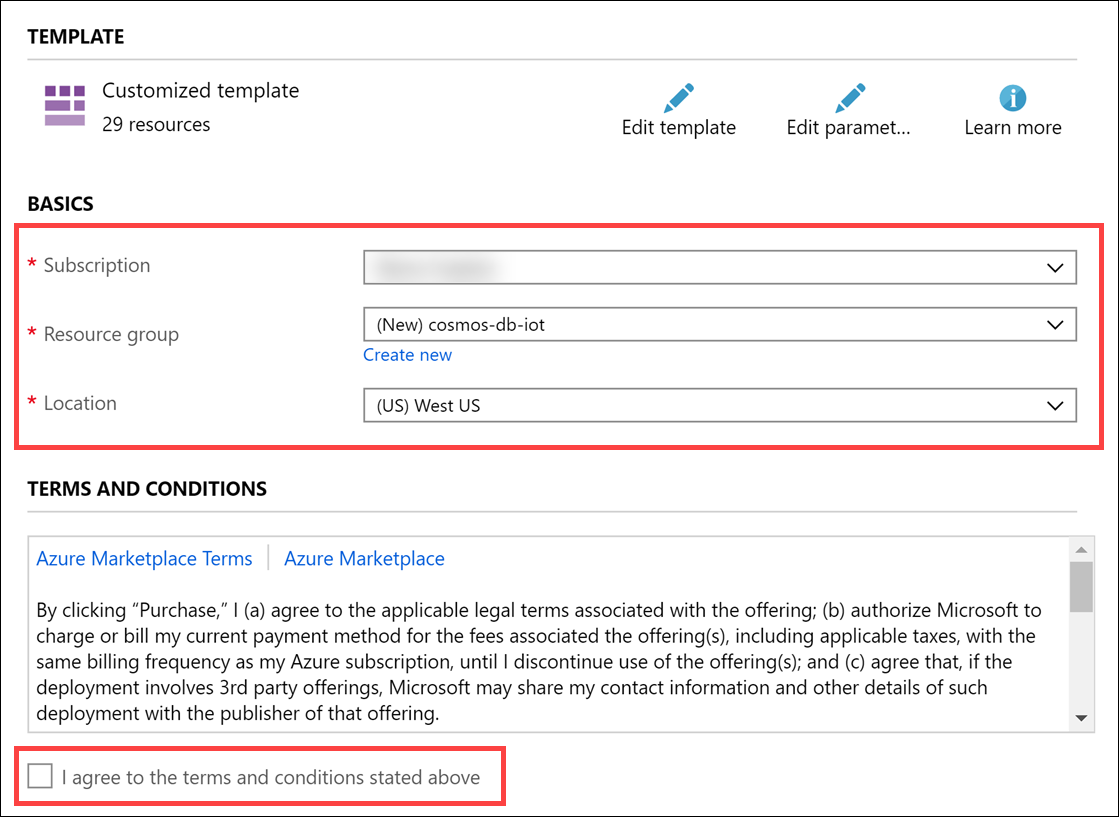
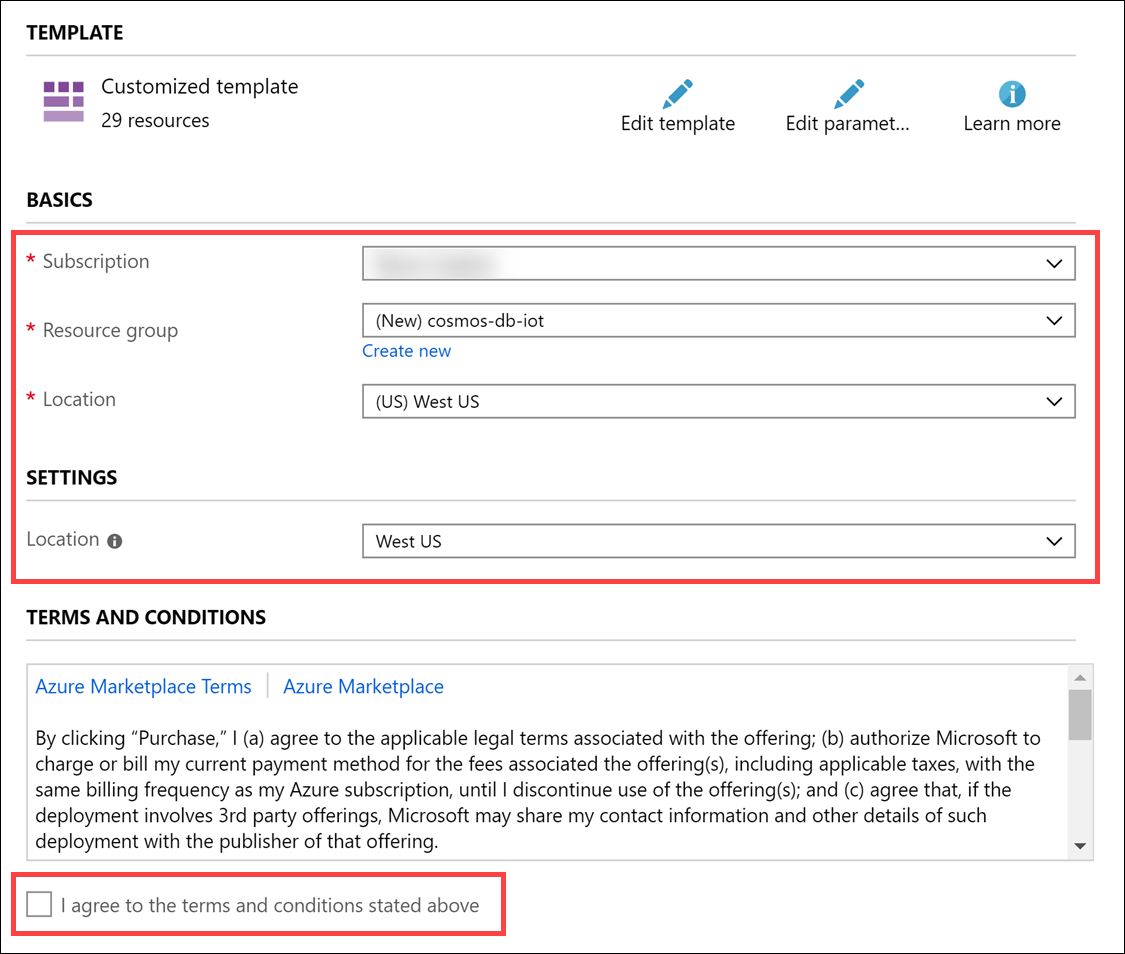
Simplify ARM template deployments and reference specific locations

diff --git a/IoT/Demo step-by step - Cosmos DB scenario-based labs - IoT.md b/IoT/Demo step-by step - Cosmos DB scenario-based labs - IoT.md
@@ -133,29 +133,25 @@ Download a starter project that includes a vehicle simulator, Azure Function App
 
 ### Task 1: Run deployment scripts
 
-In this task, you will deploy the infrastructure for this demo using an ARM Template deployment.
+1. Select the **Deploy to Azure** button below to get started. When prompted, sign in to the Azure portal with your account.
 
-1. In the [Azure portal](https://portal.azure.com), select **+ Create a resource** then create a new **Template deployment**.
+   <a href="https://portal.azure.com/#create/Microsoft.Template/uri/https%3A%2F%2Fraw.githubusercontent.com%2Fsolliancenet%2Fcosmos-db-scenario-based-labs%2Fmaster%2FIoT%2Fdeploy%2FdemoDeploy.json" target="_blank">
+   <img src="http://azuredeploy.net/deploybutton.png"/>
+   </a>
 
-2. On the **Custom deployment** pane, select **Build your own template in the editor**.
+2. Enter the following values:
 
-3. On the **Edit template** blade, select the **Load file** button and upload the **demoDeploy.json** ARM Template located at `\cosmos-db-scenario-based-labs\IoT\deploy\demoDeploy.json`.
+   - **Subscription**: select the Azure subscription you are using for this lab.
+   - **Resource group**: _if you are using a hosted environment, select the existing `iot` resource group provided for you_; Otherwise, create a new resource group like `cosmos-db-iot`.
+   - **Location**: select the location closest to you. This value sets the Resource Group location.
+   - **Recipient Email**: Enter an email address to receive notifications from the Logic App.
+   - **Location**: select the location closest to you. This value sets the location for all deployed services. _The options in this list are limited to those locations commonly available to all services in this solution_.
 
-4. Select **Save**.
-
-5. Enter the following values:
-
-    - Subscription: select the Azure subscription you are using for this lab.
-    - Resource group: _if you are using a hosted environment, select the existing `iot` resource group provided for you_; Otherwise, create a new resource group like `cosmos-db-iot`.
-    - Location: _it doesn't matter which region is selected, the template will use West US to ensure everything works_
-    - Recipient Email: **Enter an email address to receive notifications from the Logic App**
-    - Key Vault Access Policy User Object Id: paste your user account's `Object ID` you copied earlier.
-
-6. Check the **I agree to the terms and conditions stated above** box.
+3. Check the **I agree to the terms and conditions stated above** box.
 
     ![The template form is displayed with the previously described values.](media/portal-deploy-template-form.png "Custom Template")
 
-7. Select **Purchase**
+4. Select **Purchase**
 
 > The template deployment will take a few minutes to complete. Continue with the guide once it completes
 

diff --git a/IoT/Before the HOL - Cosmos DB scenario-based labs - IoT.md b/IoT/Before the HOL - Cosmos DB scenario-based labs - IoT.md
@@ -69,9 +69,10 @@ In this task, you will deploy the infrastructure for this demo using an ARM Temp
 
 2. Enter the following values:
 
-   - Subscription: select the Azure subscription you are using for this lab.
-   - Resource group: _if you are using a hosted environment, select the existing `iot` resource group provided for you_; Otherwise, create a new resource group like `cosmos-db-iot`.
-   - Location: select the location closest to you.
+   - **Subscription**: select the Azure subscription you are using for this lab.
+   - **Resource group**: _if you are using a hosted environment, select the existing `iot` resource group provided for you_; Otherwise, create a new resource group like `cosmos-db-iot`.
+   - **Location**: select the location closest to you. This value sets the Resource Group location.
+   - **Location**: select the location closest to you. This value sets the location for all deployed services. _The options in this list are limited to those locations commonly available to all services in this solution_.
 
 3. Check the **I agree to the terms and conditions stated above** box.
 
